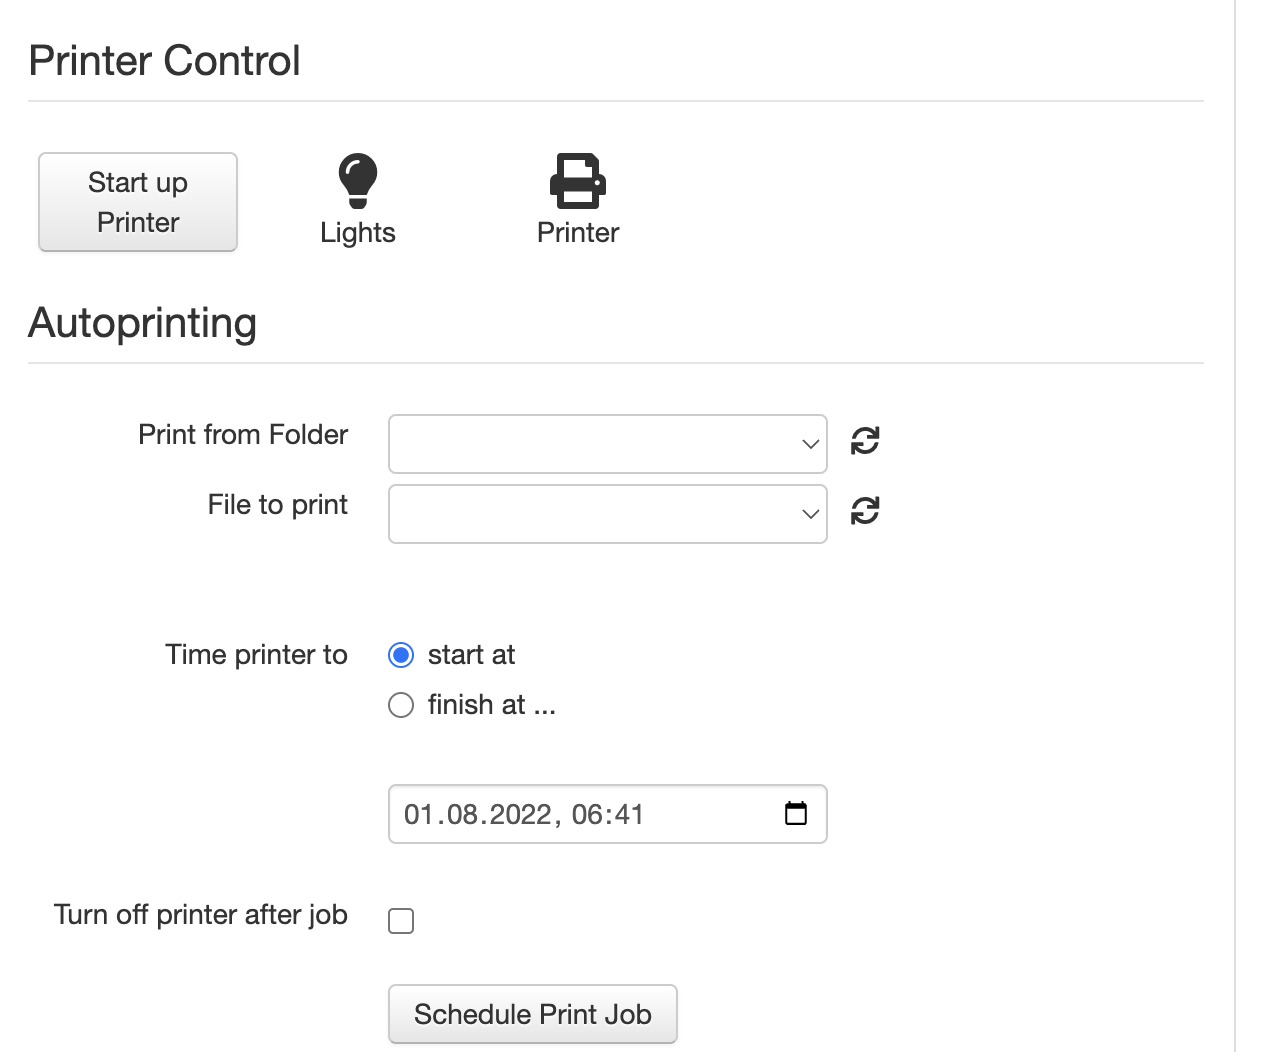
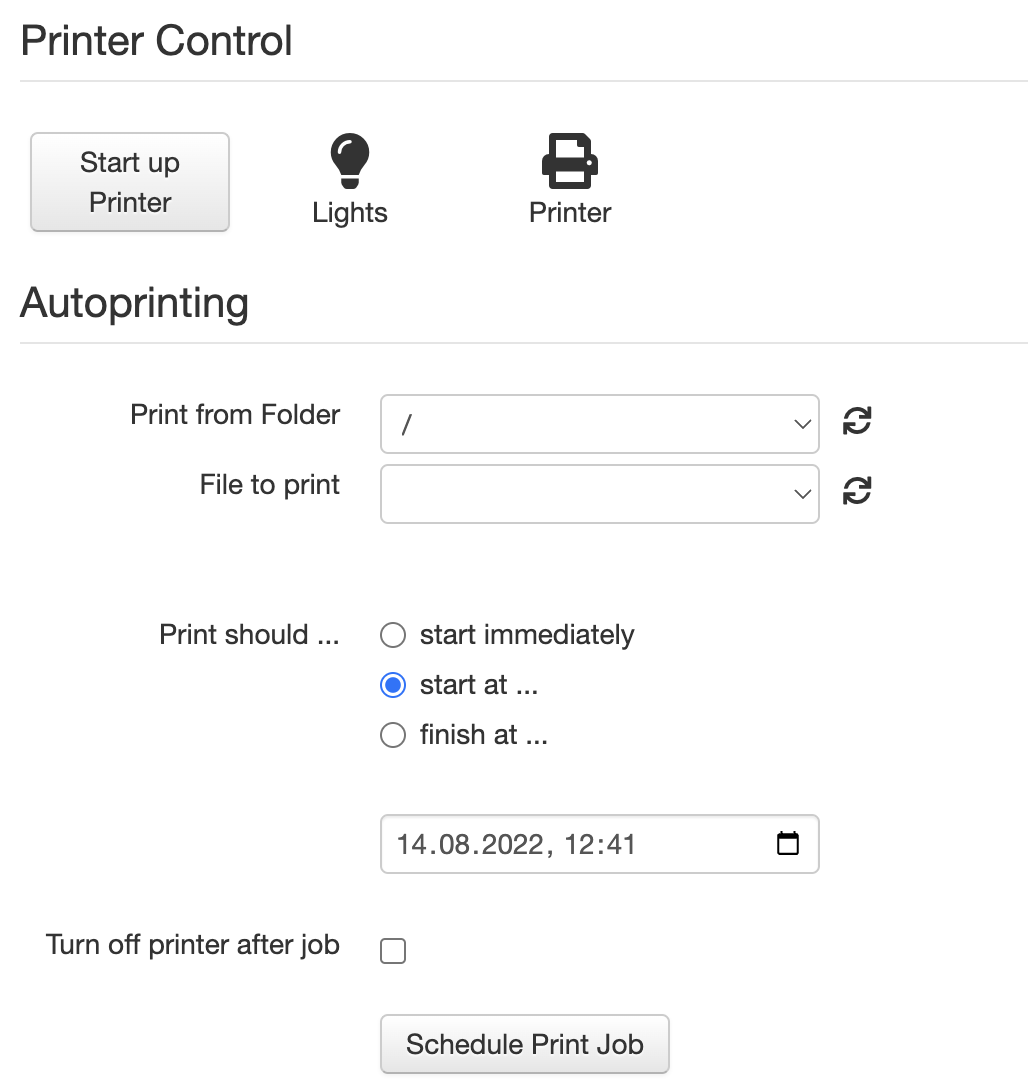
Updated the documentation and screen shots

diff --git a/extras/autoprint.md b/extras/autoprint.md
@@ -115,7 +115,7 @@ During the cooldown process you can cancel the shutdown of the printer at any ti
 The plugin allows to schedule a print for a later time with the following options:
 
 - Select a file from a any folder
-- Choose either the start or the end time
+- Choose to start immediately or select either the start or the end time
 - Check wether the printer should shutdown after the print has finished
 
 The autoprint controls are available on the tab of the plugin (see picture below) and are only available if the printer is neither printing, paused nor pausing a print.

diff --git a/README.md b/README.md
@@ -45,8 +45,7 @@ and use `pip install .`to install the plugin
 3. Start octoprint always from your plugin directory (in the virtual environment as described    in  2) with:
    ```sh 
    tests/octoprint_dev.sh
-   ```
 
-## Configuration
+## Description
 
-**TODO:** Describe your plugin's configuration options (if any).
+For the description please refer to the [autoprint documentation](extras/autoprint.md)
